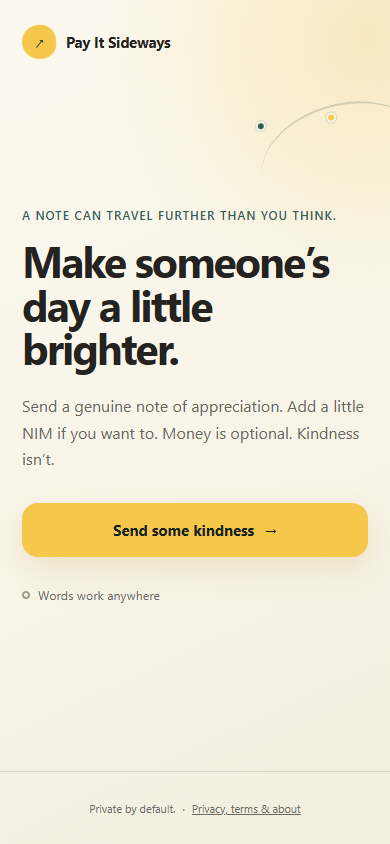
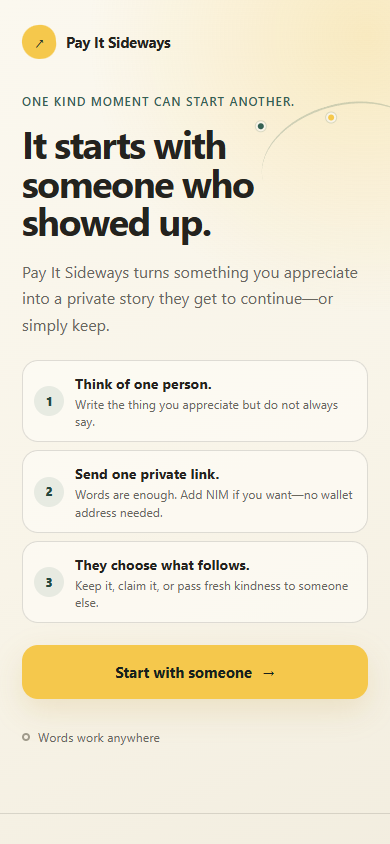
Turn onboarding into the product story

diff --git a/src/views/HomeView.vue b/src/views/HomeView.vue
@@ -35,15 +35,29 @@ onMounted(async () => {
     </div>
 
     <section class="home-copy" aria-labelledby="home-heading">
-      <p class="eyebrow">A note can travel further than you think.</p>
-      <h1 id="home-heading">Make someone’s day a little brighter.</h1>
+      <p class="eyebrow">One kind moment can start another.</p>
+      <h1 id="home-heading">It starts with someone who showed up.</h1>
       <p class="lead">
-        Send a genuine note of appreciation. Add a little NIM if you want to.
-        Money is optional. Kindness isn’t.
+        Pay It Sideways turns something you appreciate into a private story they get to continue—or simply keep.
       </p>
 
+      <ol class="story-beats" aria-label="How Pay It Sideways works">
+        <li>
+          <span class="story-number" aria-hidden="true">1</span>
+          <div><strong>Think of one person.</strong><p>Write the thing you appreciate but do not always say.</p></div>
+        </li>
+        <li>
+          <span class="story-number" aria-hidden="true">2</span>
+          <div><strong>Send one private link.</strong><p>Words are enough. Add NIM if you want—no wallet address needed.</p></div>
+        </li>
+        <li>
+          <span class="story-number" aria-hidden="true">3</span>
+          <div><strong>They choose what follows.</strong><p>Keep it, claim it, or pass fresh kindness to someone else.</p></div>
+        </li>
+      </ol>
+
       <RouterLink class="button button--primary button--wide" to="/create" @click="track('create_started')">
-        Send some kindness <span aria-hidden="true">→</span>
+        Start with someone <span aria-hidden="true">→</span>
       </RouterLink>
       <RouterLink v-if="hasSentLinks" class="recent-link" to="/history">Reopen a recent private link</RouterLink>
 

diff --git a/src/style.css b/src/style.css
@@ -92,8 +92,9 @@ input:focus-visible {
   flex: 1;
 }
 
-.home-screen { display: flex; align-items: center; }
+.home-screen { display: flex; align-items: flex-start; padding-top: 20px; }
 .home-copy { width: min(100%, 570px); margin: auto; }
+.home-copy h1 { max-width: 12ch; font-size: clamp(2.2rem, 9.8vw, 4.35rem); }
 .centered-screen { display: grid; place-items: center; }
 
 .eyebrow {
@@ -125,6 +126,42 @@ h1 {
 
 .lead { margin: 24px 0 30px; font-size: 1rem; }
 .supporting { margin: 14px 0 28px; }
+
+.home-copy .lead { margin: 18px 0 22px; }
+
+.story-beats {
+  display: grid;
+  gap: 8px;
+  margin: 0 0 22px;
+  padding: 0;
+  list-style: none;
+}
+
+.story-beats li {
+  display: grid;
+  grid-template-columns: 30px 1fr;
+  gap: 11px;
+  align-items: center;
+  padding: 11px 13px 11px 11px;
+  border: 1px solid var(--line);
+  border-radius: 16px;
+  background: rgba(255, 253, 248, 0.58);
+}
+
+.story-number {
+  display: grid;
+  width: 30px;
+  height: 30px;
+  place-items: center;
+  border-radius: 50%;
+  color: var(--leaf-dark);
+  background: rgba(53, 97, 84, 0.1);
+  font-size: 0.72rem;
+  font-weight: 800;
+}
+
+.story-beats strong { font-size: 0.88rem; }
+.story-beats p { margin: 3px 0 0; color: var(--muted); font-size: 0.76rem; line-height: 1.42; }
 
 .button {
   display: inline-flex;

diff --git a/SUBMISSION.md b/SUBMISSION.md
@@ -17,7 +17,7 @@
 
 ## Description (under 250 words)
 
-Pay It Sideways turns a private note of appreciation into an invitation—not an obligation—to create another kind moment.
+Pay It Sideways begins with a three-beat story: think of one person, send one private link, and let them choose what follows. It turns a private note of appreciation into an invitation—not an obligation—to create another kind moment.
 
 A sender answers two simple prompts, then sends their own genuine words. They can optionally add a small NIM gift through Nimiq Pay, but “Words are enough” is the default and is treated as a complete experience. The sender never needs the recipient’s wallet address: one private link carries both the note and, when present, a one-use claimable NIM gift.
 
@@ -33,8 +33,8 @@ Crypto gifting normally begins with plumbing: “What is your wallet address?”
 
 ## 60-second walkthrough
 
-1. Open Pay It Sideways inside Nimiq Pay; point out “Money is optional.”
-2. Tap **Send some kindness** and answer the two prompts.
+1. Open Pay It Sideways inside Nimiq Pay; let the three-beat story establish person → private link → choice.
+2. Tap **Start with someone** and answer the two prompts.
 3. Choose **Add a little NIM**, select 0.5 NIM, and show the native confirmation.
 4. Share the resulting private link to a second device/account.
 5. Open it and show the message, attached NIM, and “nothing you need to do.”
